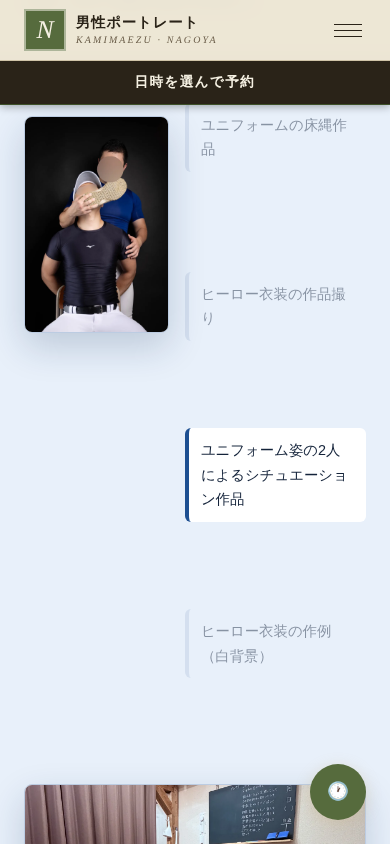
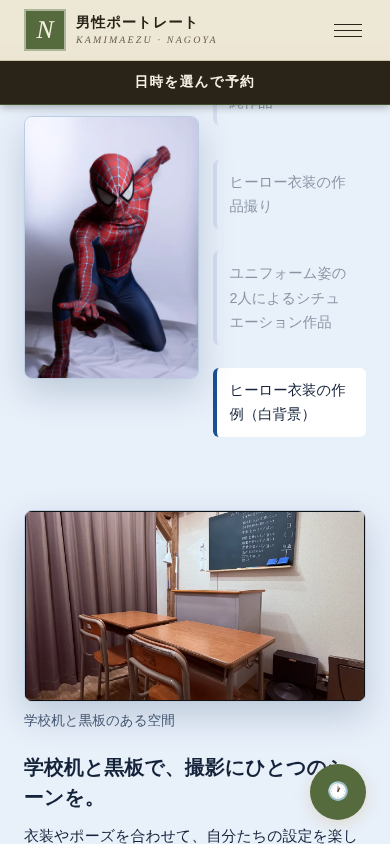
mens試作: 作品切替の判定帯をpx化し、キーボード操作とSP表示を改善 (#653)
- IntersectionObserver の rootMargin を viewport 高さ基準のpxにし、resizeで更新（横長画面で帯が成立しない問題の修正）
- キャプションを Tab 対象にし、フォーカス／Enter／Space で作品選択・拡大できるようにした
- SPは写真を大きく、行の余白を詰めた
- 横長viewport・キーボード・resize を検証するテストを追加

Claude-Session: https://claude.ai/code/session_01UDjW9kF3f5tbzL9QWM7qt1

diff --git a/test/mens-preview-633.test.js b/test/mens-preview-633.test.js
@@ -466,7 +466,7 @@ test('#653: 衣装ブロックは指定4作品を順に紹介し、JSなし・re
   assert.doesNotMatch(css, /pv-works[^{]*\{[^}]*transform: scale/, '作品を演出用ズームで切らない');
   assert.match(css, /prefers-reduced-motion: reduce\) \{[\s\S]*\.pv-works \.pv-photo, \.pv-works figcaption \{ transition: none/);
   var js = read('scripts/mens-preview-653.js');
-  assert.doesNotMatch(js, /setInterval|setTimeout|scrollTo|scrollIntoView|click\(/, '自動再生・スクロールの強制移動をしない');
+  assert.doesNotMatch(js, /setInterval|setTimeout|scrollTo|scrollIntoView/, '自動再生・スクロールの強制移動をしない');
   assert.match(js, /prefers-reduced-motion: reduce/);
   assert.match(js, /catch \(e\) \{\s*root\.classList\.remove\('is-active'\)/);
   assert.ok(html.indexOf('mens-preview-653.js') !== -1);
@@ -475,37 +475,60 @@ test('#653: 衣装ブロックは指定4作品を順に紹介し、JSなし・re
 test('#653: 作品切替JSは reduced motion・非対応・例外時に .is-active を付けず、キャプションが帯に入った作品を表示中にする', function () {
   var vm = require('vm');
   function run(opts) {
-    var added = [], io = null, works = [0, 1, 2, 3].map(function (i) {
+    var added = [], ios = [], listeners = {}, clicks = 0;
+    var works = [0, 1, 2, 3].map(function (i) {
       var cls = {};
-      return { i: i, cls: cls, classList: { add: function (c) { cls[c] = true; }, remove: function (c) { delete cls[c]; } } };
+      return { i: i, cls: cls, contains: function () { return false; }, querySelector: function () { return { click: function () { clicks++; }, focus: function () {} }; }, classList: { add: function (c) { cls[c] = true; }, remove: function (c) { delete cls[c]; } } };
     });
-    var caps = works.map(function (w) { return { closest: function () { return w; } }; });
+    var caps = works.map(function (w) {
+      var attrs = {}, ev = {};
+      return { attrs: attrs, ev: ev, textContent: '作品' + w.i, closest: function () { return w; }, setAttribute: function (k, v) { attrs[k] = v; }, removeAttribute: function (k) { delete attrs[k]; }, addEventListener: function (t, f) { ev[t] = f; } };
+    });
     var rootEl = {
       classList: { add: function (c) { added.push(c); }, remove: function (c) { added = added.filter(function (x) { return x !== c; }); } },
       querySelectorAll: function (q) { return q.indexOf('caption') !== -1 ? caps : works; }
     };
     var sb = {
-      document: { querySelector: function () { return rootEl; } },
+      document: { querySelector: function () { return rootEl; }, activeElement: null },
+      innerHeight: opts.h || 720,
       matchMedia: function (q) { return { matches: q.indexOf('reduce') !== -1 ? !!opts.reduced : false }; },
+      addEventListener: function (t, f) { listeners[t] = f; },
+      requestAnimationFrame: function (f) { f(); },
       Array: Array,
-      IntersectionObserver: opts.io === undefined ? function (cb) { io = cb; this.observe = function () {}; } : opts.io
+      IntersectionObserver: opts.io === undefined ? function (cb, o) { ios.push({ cb: cb, o: o }); this.observe = function () {}; this.disconnect = function () {}; } : opts.io
     };
     sb.window = sb;
     if (opts.noIo) delete sb.IntersectionObserver;
     vm.runInNewContext(read('scripts/mens-preview-653.js'), sb);
-    return { added: added, works: works, io: io, caps: caps };
+    return { added: added, works: works, ios: ios, caps: caps, listeners: listeners, sb: sb, clicks: function () { return clicks; } };
   }
-  var ok = run({});
+  var ok = run({ h: 720 });
   assert.deepStrictEqual(ok.added, ['is-active']);
   assert.ok(ok.works[0].cls['is-current'], '初期は1作品目');
-  ok.io([{ isIntersecting: true, target: ok.caps[2] }]);
-  assert.ok(ok.works[2].cls['is-current'] && !ok.works[0].cls['is-current'], 'キャプション2が帯に入ると3作品目だけが表示中');
-  ok.io([{ isIntersecting: false, target: ok.caps[1] }]);
+  assert.strictEqual(ok.ios[0].o.rootMargin, '-324px 0px -324px 0px', '帯は viewport の高さ（720px）の中央10%：%ではなくpxで指定する（横長画面でも成立）');
+  ok.ios[0].cb([{ isIntersecting: true, target: ok.caps[2] }]);
+  assert.ok(ok.works[2].cls['is-current'] && !ok.works[0].cls['is-current'], 'キャプション3が帯に入ると3作品目だけが表示中');
+  ok.ios[0].cb([{ isIntersecting: false, target: ok.caps[1] }]);
   assert.ok(ok.works[2].cls['is-current'], '帯から出ただけでは切り替えない');
+  ok.sb.innerHeight = 900;
+  ok.listeners.resize();
+  assert.strictEqual(ok.ios[ok.ios.length - 1].o.rootMargin, '-405px 0px -405px 0px', 'resizeで帯を更新する');
+  /* キーボード：全キャプションが Tab 対象で、フォーカス・Enter・Space でその作品を選び、Enter・Space で拡大できる */
+  ok.caps.forEach(function (c) { assert.strictEqual(c.attrs.tabindex, '0'); assert.strictEqual(c.attrs.role, 'button'); });
+  ok.caps[3].ev.focus();
+  assert.ok(ok.works[3].cls['is-current'] && !ok.works[2].cls['is-current'], 'フォーカスで4作品目へ');
+  var prevented = 0;
+  ok.caps[1].ev.keydown({ key: 'Enter', preventDefault: function () { prevented++; } });
+  assert.ok(ok.works[1].cls['is-current'] && ok.clicks() === 1 && prevented === 1, 'Enterで選択して拡大');
+  ok.caps[0].ev.keydown({ key: ' ', preventDefault: function () { prevented++; } });
+  assert.strictEqual(ok.clicks(), 2);
+  ok.caps[0].ev.keydown({ key: 'a', preventDefault: function () { prevented++; } });
+  assert.strictEqual(ok.clicks(), 2, '他のキーでは拡大しない');
   assert.deepStrictEqual(run({ reduced: true }).added, []);
   assert.deepStrictEqual(run({ noIo: true }).added, []);
-  assert.deepStrictEqual(run({ io: function () { throw new Error('boom'); } }).added, []);
-  assert.deepStrictEqual(run({ io: function () { this.observe = function () { throw new Error('boom'); }; } }).added, []);
+  var fail = run({ io: function () { throw new Error('boom'); } });
+  assert.deepStrictEqual(fail.added, []);
+  fail.caps.forEach(function (c) { assert.deepStrictEqual(c.attrs, {}, '失敗時は操作属性を残さない'); });
 });
 
 /* Issue #641: ヒーロー・OGP画像の差し替え（生成画像の実寸・参照の整合） */

diff --git a/scripts/mens-preview-653.js b/scripts/mens-preview-653.js
@@ -1,5 +1,7 @@
 /* Issue #653 試作ページ専用：作品紹介（衣装ブロック）の写真・キャプション切替。
    4作品の写真を左の固定枠に重ね、右のキャプションが画面中央の帯に入ったとき、その作品の写真を表示中にする。
+   帯は viewport の高さからpxで求め（rootMargin の%は仕様上 root の幅基準のため使わない）、resize で更新する。
+   キーボード：キャプションを Tab で選ぶと対応する写真に切り替わり、Enter／Space でその写真を拡大できる。
    自動再生・スクロールの強制移動・ズームはしない。
    prefers-reduced-motion、IntersectionObserver 非対応、初期化の例外時は .is-active を付けず、
    4作品と各キャプションを通常の静的一覧で表示する。 */
@@ -8,26 +10,66 @@
   if (!root) return;
   if (window.matchMedia && window.matchMedia('(prefers-reduced-motion: reduce)').matches) return;
   if (!('IntersectionObserver' in window)) return;
+  var captions = [];
   try {
     var works = root.querySelectorAll('[data-pv-work]');
     if (works.length < 2) return;
-    var captions = root.querySelectorAll('[data-pv-work-caption]');
+    captions = Array.prototype.slice.call(root.querySelectorAll('[data-pv-work-caption]'));
     var current = null;
+    var io = null;
+    var queued = false;
+    function workOf(el) { return el.closest('[data-pv-work]'); }
     function activate(work) {
       if (current === work) return;
+      var img = work.querySelector('img');
+      var hadFocus = current && current.contains(document.activeElement) && document.activeElement.tagName === 'IMG';
       if (current) current.classList.remove('is-current');
       current = work;
       work.classList.add('is-current');
+      if (hadFocus && img && img.focus) img.focus({ preventScroll: true });
     }
-    var io = new IntersectionObserver(function (entries) {
-      entries.forEach(function (entry) {
-        if (entry.isIntersecting) activate(entry.target.closest('[data-pv-work]'));
+    function observe() {
+      queued = false;
+      if (io && io.disconnect) io.disconnect();
+      var m = Math.round((window.innerHeight || 800) * 0.45) + 'px';
+      io = new IntersectionObserver(function (entries) {
+        entries.forEach(function (entry) {
+          if (entry.isIntersecting) activate(workOf(entry.target));
+        });
+      }, { rootMargin: '-' + m + ' 0px -' + m + ' 0px' });
+      captions.forEach(function (el) { io.observe(el); });
+    }
+    function queueObserve() {
+      if (queued) return;
+      queued = true;
+      window.requestAnimationFrame(observe);
+    }
+    captions.forEach(function (cap) {
+      var work = workOf(cap);
+      var img = work.querySelector('img');
+      cap.setAttribute('tabindex', '0');
+      cap.setAttribute('role', 'button');
+      cap.setAttribute('aria-label', cap.textContent + '（拡大して見る）');
+      cap.addEventListener('focus', function () { activate(work); });
+      cap.addEventListener('click', function () { activate(work); });
+      cap.addEventListener('keydown', function (e) {
+        if (e.key !== 'Enter' && e.key !== ' ') return;
+        e.preventDefault();
+        activate(work);
+        if (img) img.click();
       });
-    }, { rootMargin: '-45% 0px -45% 0px' });
+    });
     activate(works[0]);
     root.classList.add('is-active');
-    Array.prototype.forEach.call(captions, function (el) { io.observe(el); });
+    observe();
+    window.addEventListener('resize', queueObserve);
   } catch (e) {
     root.classList.remove('is-active');
+    if (io && io.disconnect) io.disconnect();
+    captions.forEach(function (cap) {
+      cap.removeAttribute('tabindex');
+      cap.removeAttribute('role');
+      cap.removeAttribute('aria-label');
+    });
   }
 })();

diff --git a/styles/mens-preview-633.css b/styles/mens-preview-633.css
@@ -262,6 +262,8 @@
 .pv-works.is-active .pv-photo { grid-column: 1; grid-row: 1 / span 4; position: sticky; top: 128px; align-self: start; width: min(100%, calc((100vh - 176px) * 2 / 3)); opacity: 0; visibility: hidden; pointer-events: none; transition: opacity 0.45s ease, visibility 0s linear 0.45s; }
 .pv-works.is-active .pv-work.is-current .pv-photo { opacity: 1; visibility: visible; pointer-events: auto; transition-delay: 0s; z-index: 1; }
 .pv-works.is-active figcaption { grid-column: 2; align-self: center; margin: 0; padding: 14px 18px; border-left: 4px solid var(--border); border-radius: 6px; font-size: 1rem; line-height: 1.7; color: var(--text); opacity: 0.45; transition: opacity 0.45s ease; }
+.pv-works.is-active figcaption:focus-visible { outline: 2px solid var(--accent); outline-offset: 2px; }
+.pv-works.is-active figcaption { cursor: pointer; }
 .pv-works.is-active .pv-work.is-current figcaption { opacity: 1; border-left-color: var(--accent); background: #fff; }
 .pv-works.is-active .pv-work:nth-child(1) figcaption { grid-row: 1; }
 .pv-works.is-active .pv-work:nth-child(2) figcaption { grid-row: 2; }
@@ -349,7 +351,7 @@ html.reveal-ready .reveal.is-in { opacity: 1; transform: none; }
   .pv-compare-item:nth-child(5) { grid-column: 1 / -1; width: 50%; justify-self: center; }
   .pv-group { padding: 22px 20px; }
   .pv-assure { grid-template-columns: repeat(2, minmax(0, 1fr)); }
-  .pv-works.is-active { grid-template-columns: minmax(0, 0.8fr) minmax(0, 1fr); column-gap: 16px; }
+  .pv-works.is-active { grid-template-columns: minmax(0, 1.15fr) minmax(0, 1fr); grid-template-rows: repeat(4, minmax(104px, auto)); column-gap: 14px; }
   .pv-works.is-active .pv-photo { top: 116px; width: min(100%, calc((100vh - 150px) * 2 / 3)); }
   .pv-works.is-active figcaption { padding: 10px 12px; font-size: 0.9rem; }
   .z section { padding: 56px 0; }

diff --git a/_evidence-653/README.md b/_evidence-653/README.md
@@ -16,6 +16,8 @@
 | 作品切替（4キャプションを順に帯へ） | 表示中の写真がキャプション順 0→1→2→3 に一致。非表示の写真は `visibility: hidden` |
 | 拡大対象 | 表示中の写真の座標をクリックすると、その写真（`elementFromPoint` と拡大モーダルの `src`）が開く |
 | JS無効／reduced-motion | `.is-active` が付かず、4作品とキャプションが静的に並ぶ（4枚とも visible） |
+| 横長画面での実スクロール切替（1280×720／1440×900）・SP390／320 | マウスホイールで4作品が 0→1→2→3 の順に切り替わる（判定帯は viewport 高さ基準のpx指定、resizeで更新） |
+| キーボード | キャプションをTabで順に選ぶと対応する写真へ切り替わり、Enterで表示中の写真を拡大（PC・SP390で確認） |
 | 全テスト | `npm test` 2710件 pass |
 
 ## 確認記録（素材・実装）
